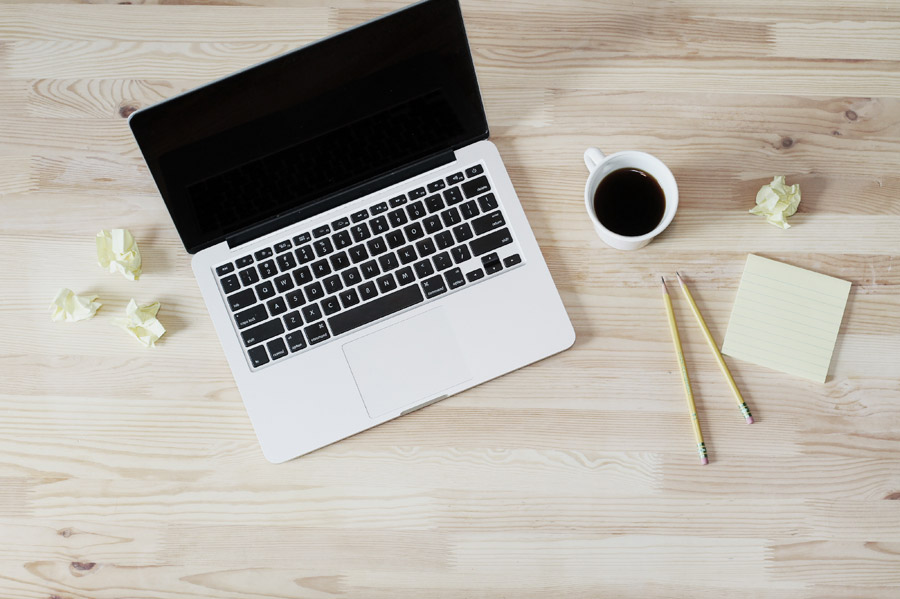
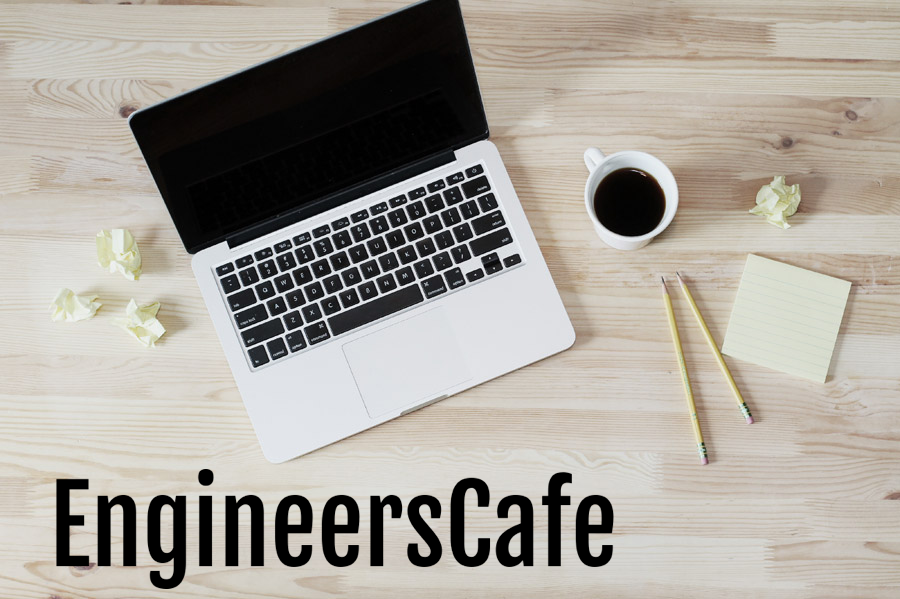
画像すり替えた

Changed region(s): [[0.0622, 0.7813, 0.6844, 0.9917]]

diff --git a/index.html b/index.html
@@ -24,7 +24,7 @@
     </nav>
 
     <div id="copy">Geek な話に一杯のコーヒーを</div>
-    <img src="assets/image/pandc.jpg" > <!-- http://gahag.net/005112-laptop-coffee/ -->
+    <img src="assets/image/pandc.png" > <!-- http://gahag.net/005112-laptop-coffee/ -->
     <div id="content">
     </div>
 
